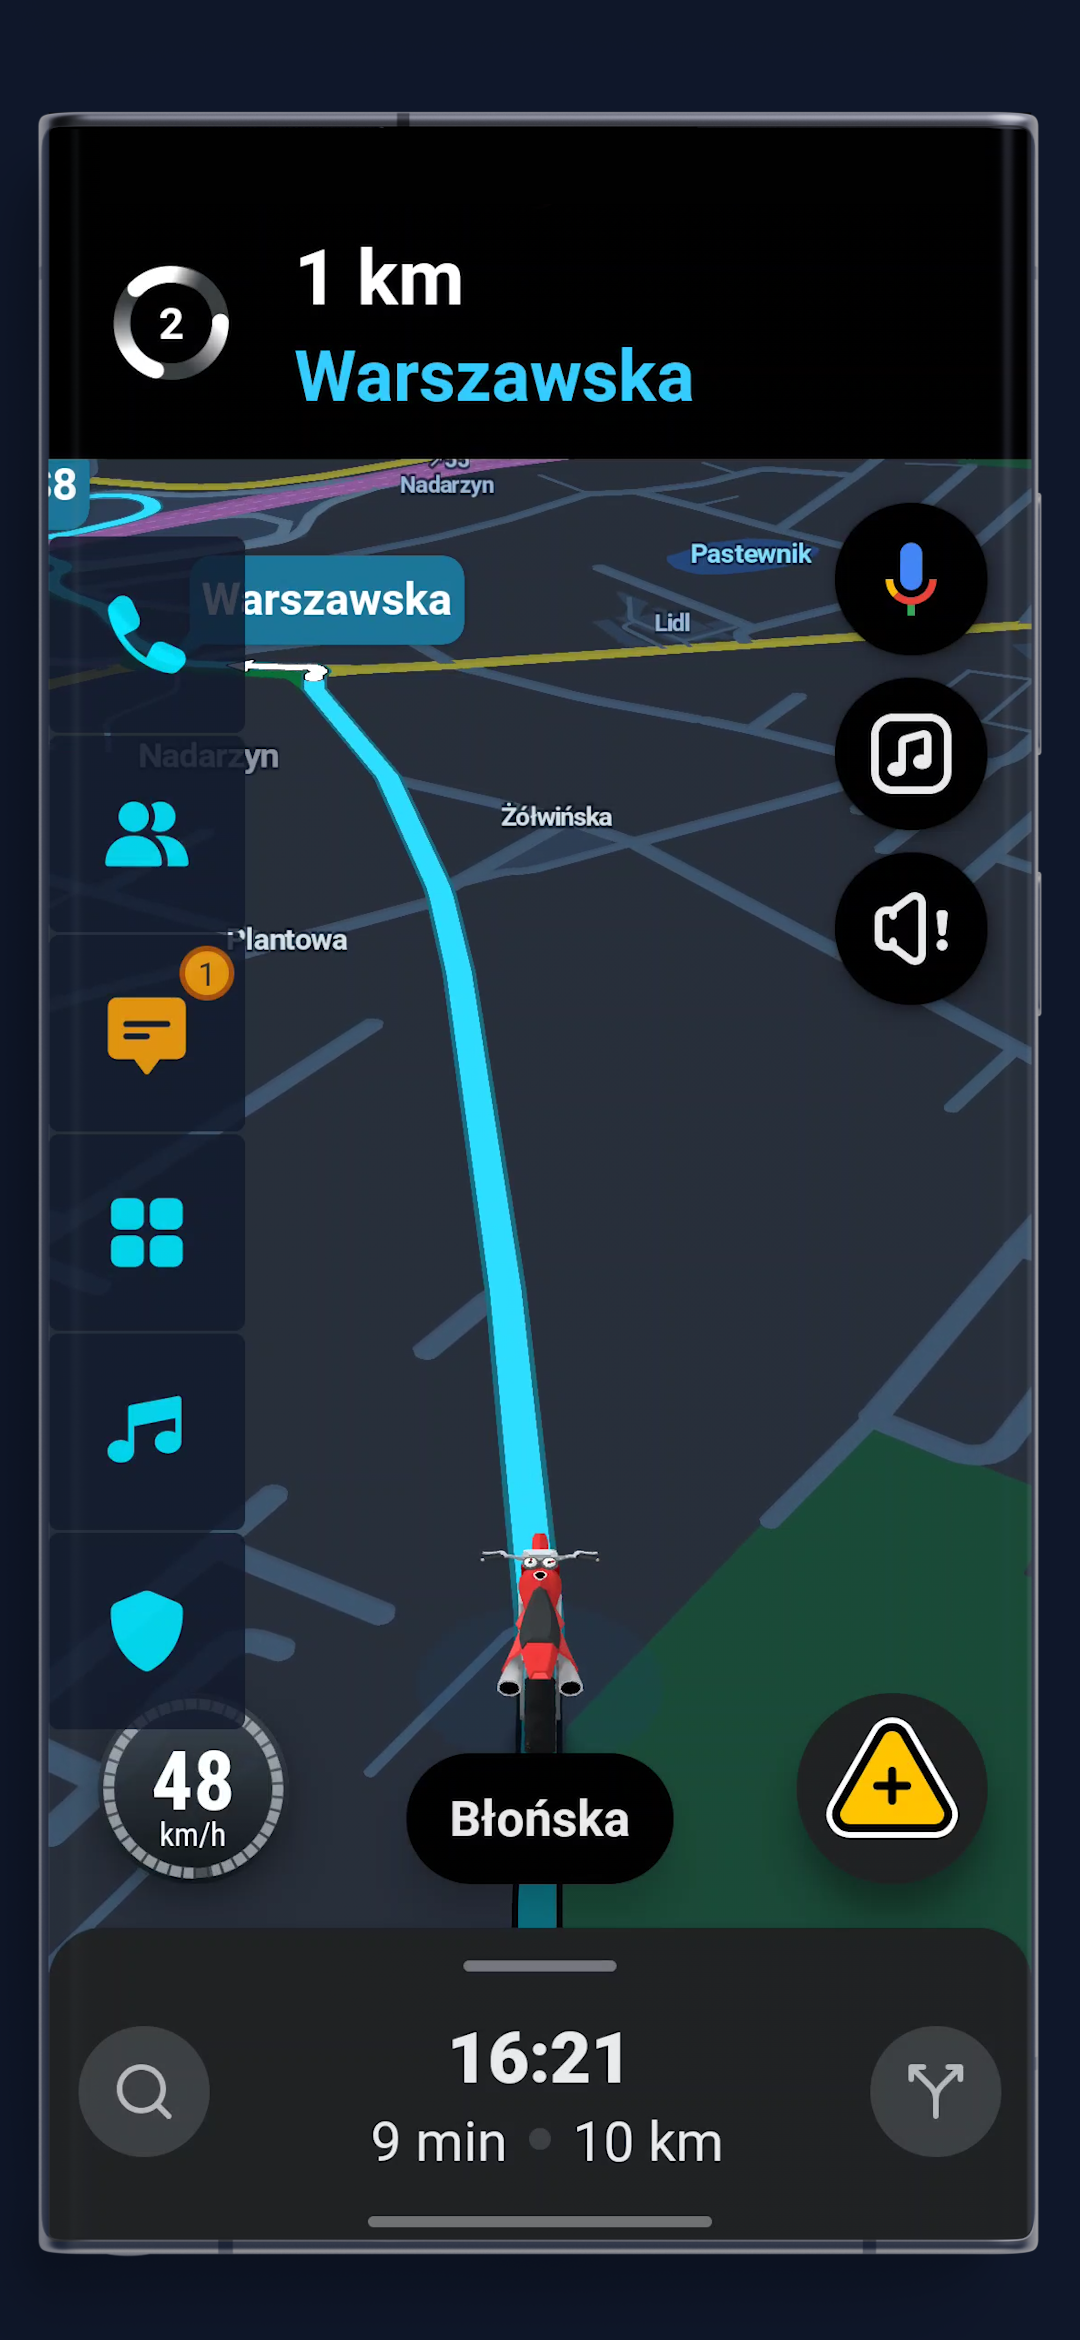
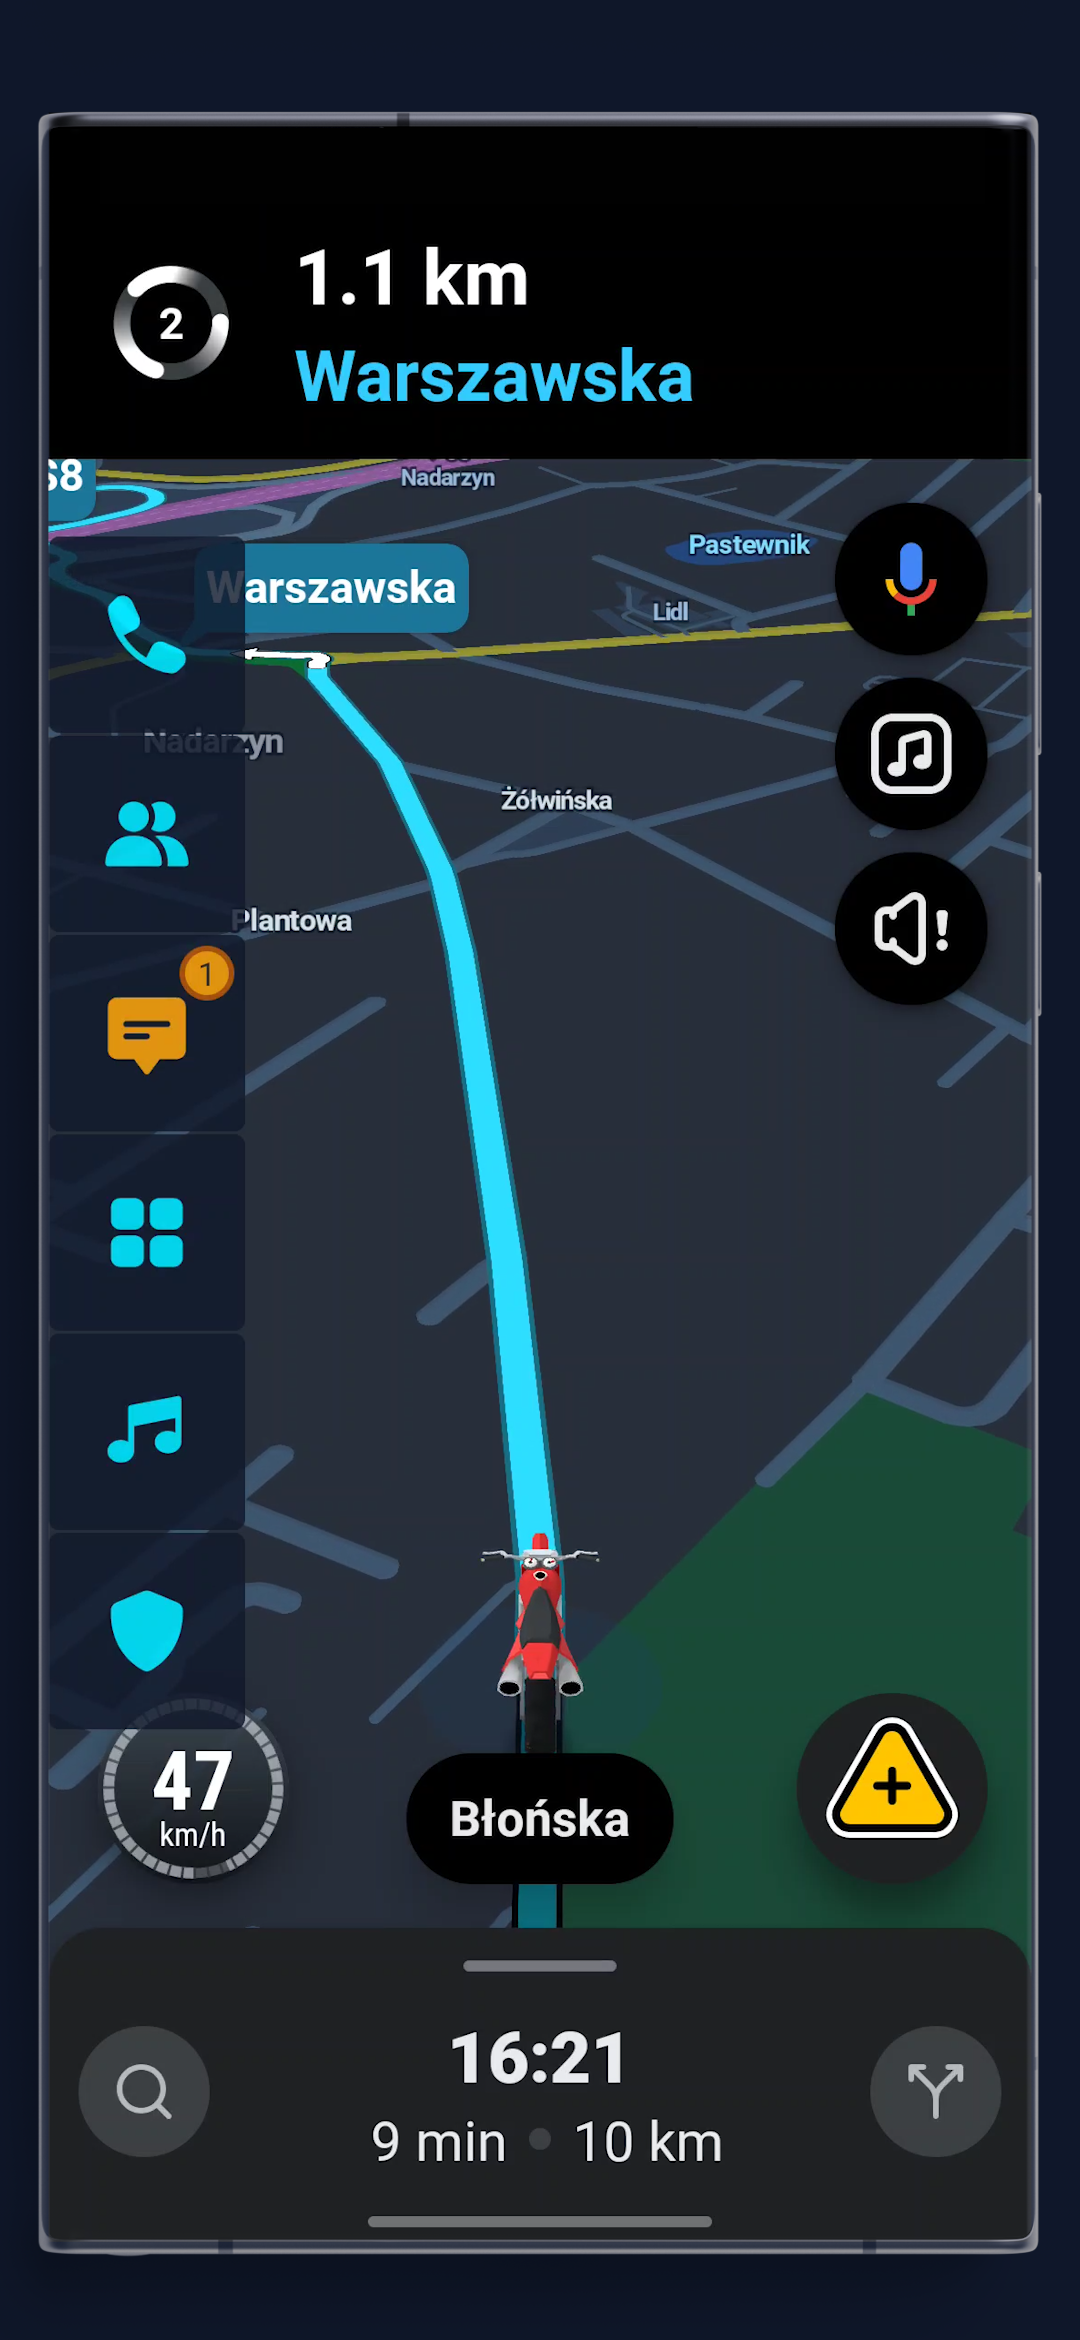
Refresh comparison screenshots (Still005/006) as lossless WebP
Bump asset cache-bust to v=5 for comparison images and video poster.

diff --git a/en/index.html b/en/index.html
@@ -31,7 +31,7 @@
                             loop
                             playsinline
                             preload="metadata"
-                            poster="../comparison-stealth.webp?v=4"
+                            poster="../comparison-stealth.webp?v=5"
                             aria-label="Vindly navigation in Stealth Mode"
                         >
                             <source src="../vindlyapp.webm?v=4" type="video/webm">
@@ -46,12 +46,12 @@
     <section class="comparison">
         <div class="screen-slot">
             <h3>Standard view</h3>
-            <img src="../comparison-standard.webp?v=4" alt="Vindly — standard view" width="1080" height="2340" loading="lazy" decoding="async">
+            <img src="../comparison-standard.webp?v=5" alt="Vindly — standard view" width="1080" height="2340" loading="lazy" decoding="async">
             <p>Full control: calls and navigation without compromise.</p>
         </div>
         <div class="screen-slot">
             <h3 class="badge-gold">Stealth Mode</h3>
-            <img src="../comparison-stealth.webp?v=4" alt="Vindly — Messages icon in Stealth Mode (still frame)" width="1080" height="2340" loading="lazy" decoding="async">
+            <img src="../comparison-stealth.webp?v=5" alt="Vindly — Messages icon in Stealth Mode (still frame)" width="1080" height="2340" loading="lazy" decoding="async">
             <p>In Stealth Mode, icons return to the foreground only when something needs your attention.</p>
         </div>
     </section>

diff --git a/pl/index.html b/pl/index.html
@@ -31,7 +31,7 @@
                             loop
                             playsinline
                             preload="metadata"
-                            poster="../comparison-stealth.webp?v=4"
+                            poster="../comparison-stealth.webp?v=5"
                             aria-label="Vindly — nawigacja w Stealth Mode"
                         >
                             <source src="../vindlyapp.webm?v=4" type="video/webm">
@@ -46,12 +46,12 @@
     <section class="comparison">
         <div class="screen-slot">
             <h3>Widok standardowy</h3>
-            <img src="../comparison-standard.webp?v=4" alt="Vindly — widok standardowy" width="1080" height="2340" loading="lazy" decoding="async">
+            <img src="../comparison-standard.webp?v=5" alt="Vindly — widok standardowy" width="1080" height="2340" loading="lazy" decoding="async">
             <p>Pełna kontrola: połączenia i nawigacja bez kompromisów.</p>
         </div>
         <div class="screen-slot">
             <h3 class="badge-gold">Stealth Mode</h3>
-            <img src="../comparison-stealth.webp?v=4" alt="Vindly — ikona wiadomości w Stealth Mode (klatka)" width="1080" height="2340" loading="lazy" decoding="async">
+            <img src="../comparison-stealth.webp?v=5" alt="Vindly — ikona wiadomości w Stealth Mode (klatka)" width="1080" height="2340" loading="lazy" decoding="async">
             <p>W Stealth Mode ikony wracają na pierwszy plan tylko wtedy, gdy coś wymaga uwagi.</p>
         </div>
     </section>